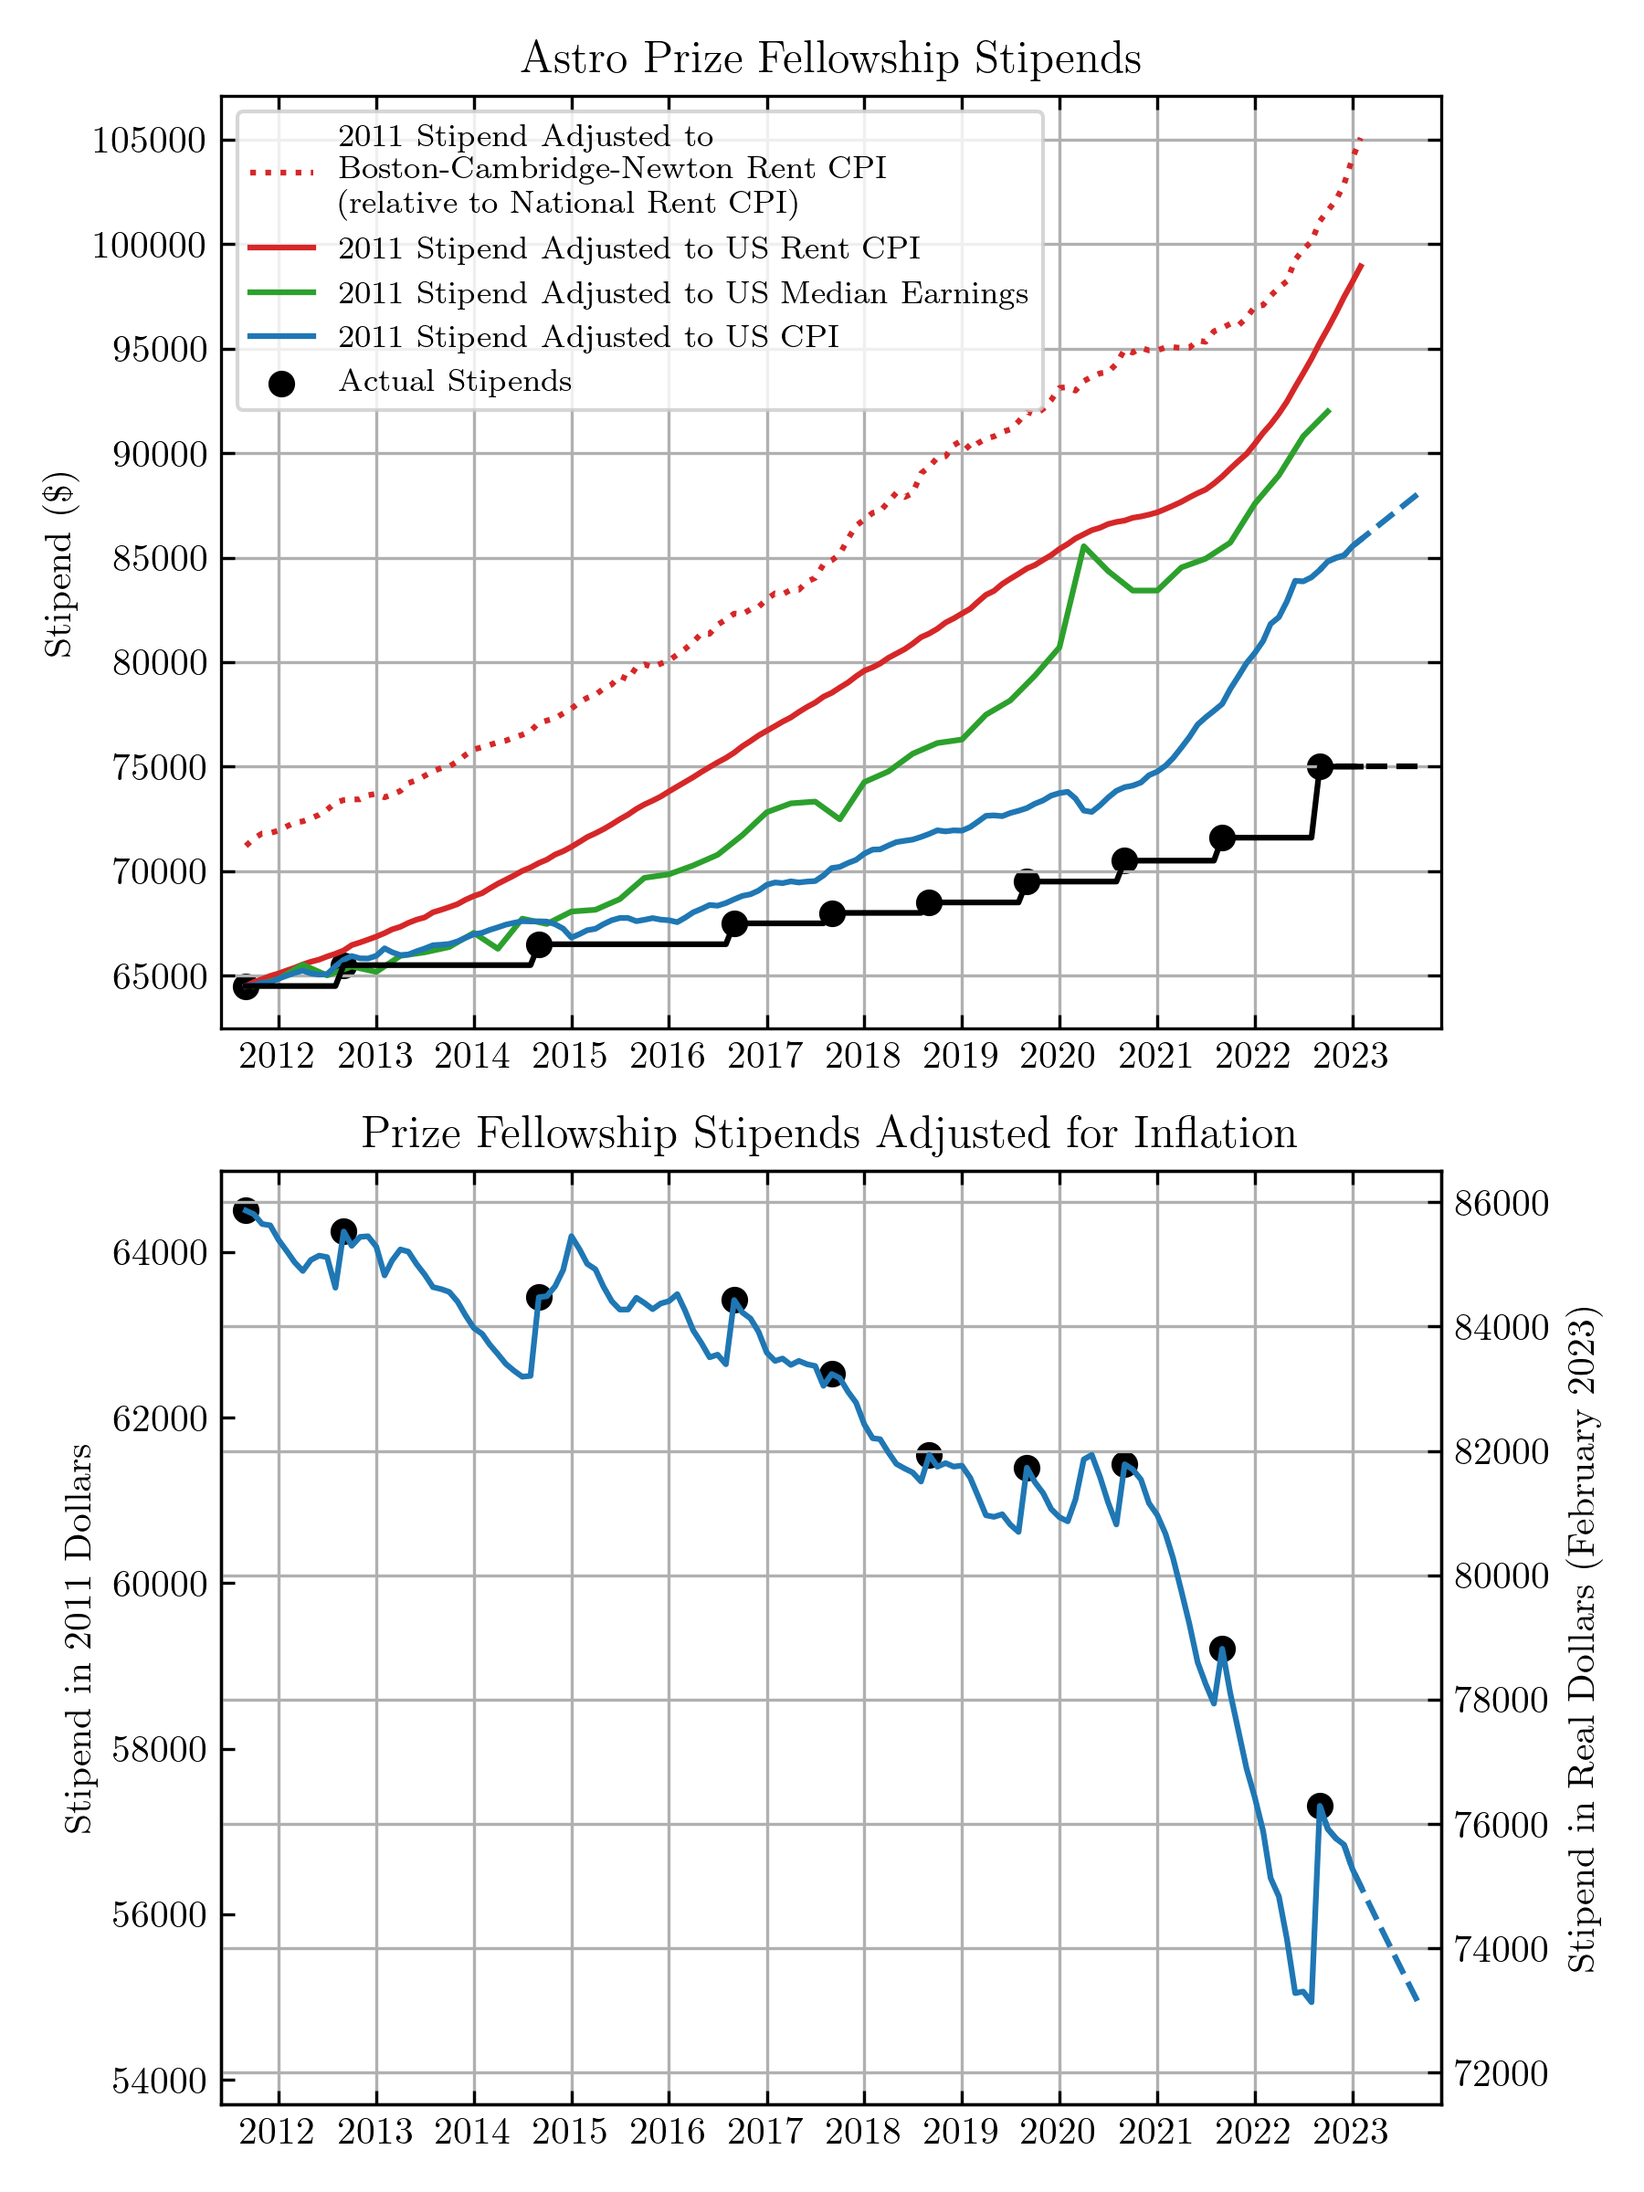
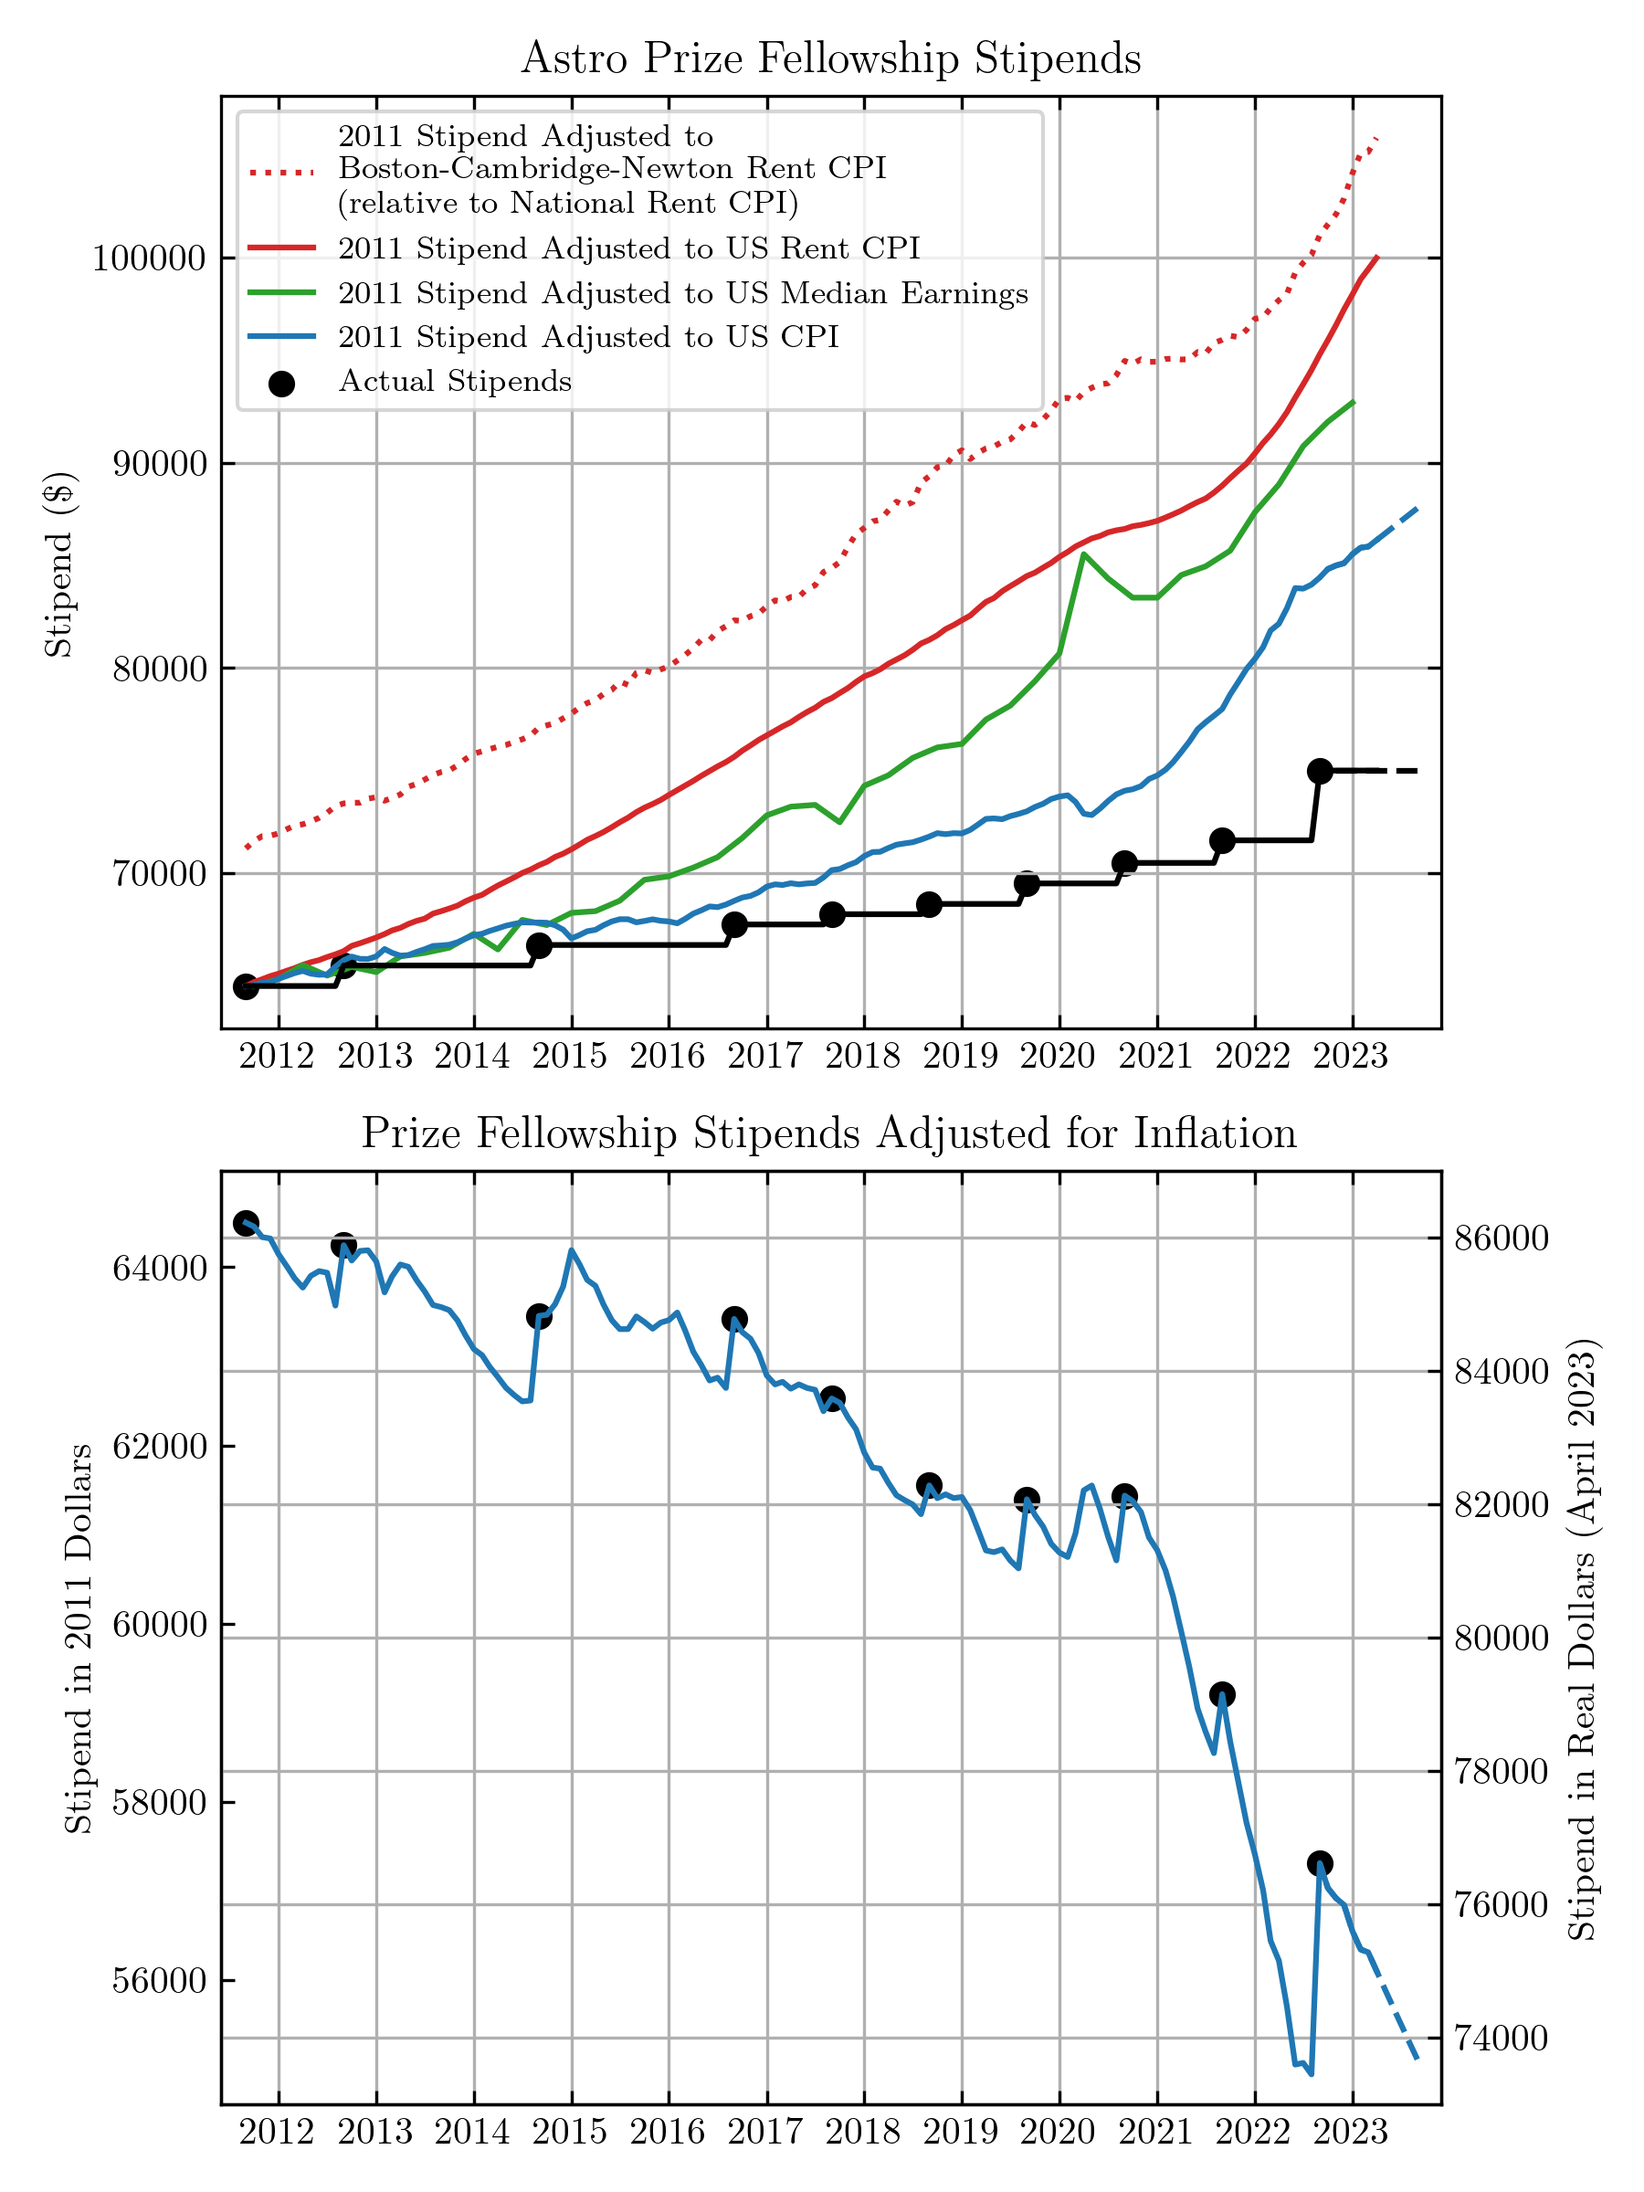
update for April 2023 inflation report

diff --git a/plot.py b/plot.py
@@ -82,11 +82,11 @@ ax[0].set_ylabel('Stipend (\$)')
 
 
 ax[1].set_title('Prize Fellowship Stipends Adjusted for Inflation')
-ymax = 86500
-ymin = 71500
+ymax = 87000
+ymin = 73000
 ax2 = ax[1].twinx()
 ax2.set_ylim(ymin,ymax)
-ax2.set_ylabel('Stipend in Real Dollars (February 2023)')
+ax2.set_ylabel('Stipend in Real Dollars (April 2023)')
 ax[1].grid(False,axis='y')
 ax[1].set_ylabel('Stipend in 2011 Dollars')
 ax[1].set_ylim(ymin*cpi[0]/cpi[-1],ymax*cpi[0]/cpi[-1])
